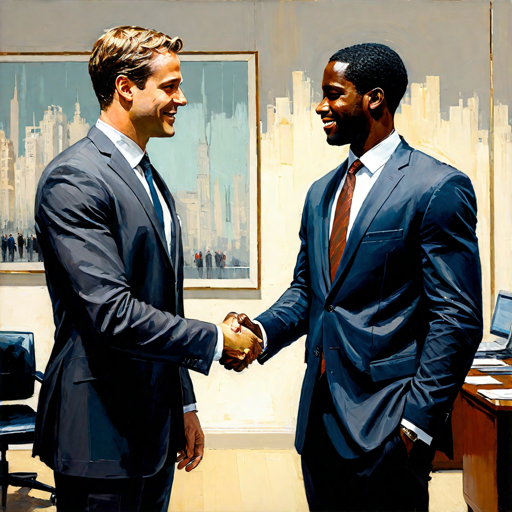
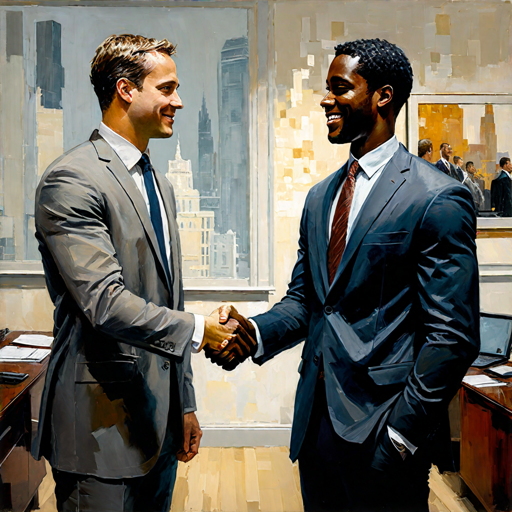
Remove unused assets

diff --git a/index.html b/index.html
@@ -367,7 +367,7 @@
               <div class="-mx-2 flex flex-wrap lg:-mx-2 sm:-mx-4 xl:-mx-4">
                 <div class="lg:px-2 px-2 sm:px-4 w-full xl:px-4">
                   <div class="h-auto">
-                    <img src="./src/assets/images/contact/2.png" class="h-full object-center object-cover w-full"/>
+                    <img src="./src/assets/images/contact/1.png" class="h-full object-center object-cover w-full"/>
                   </div>
                 </div>
               </div>
